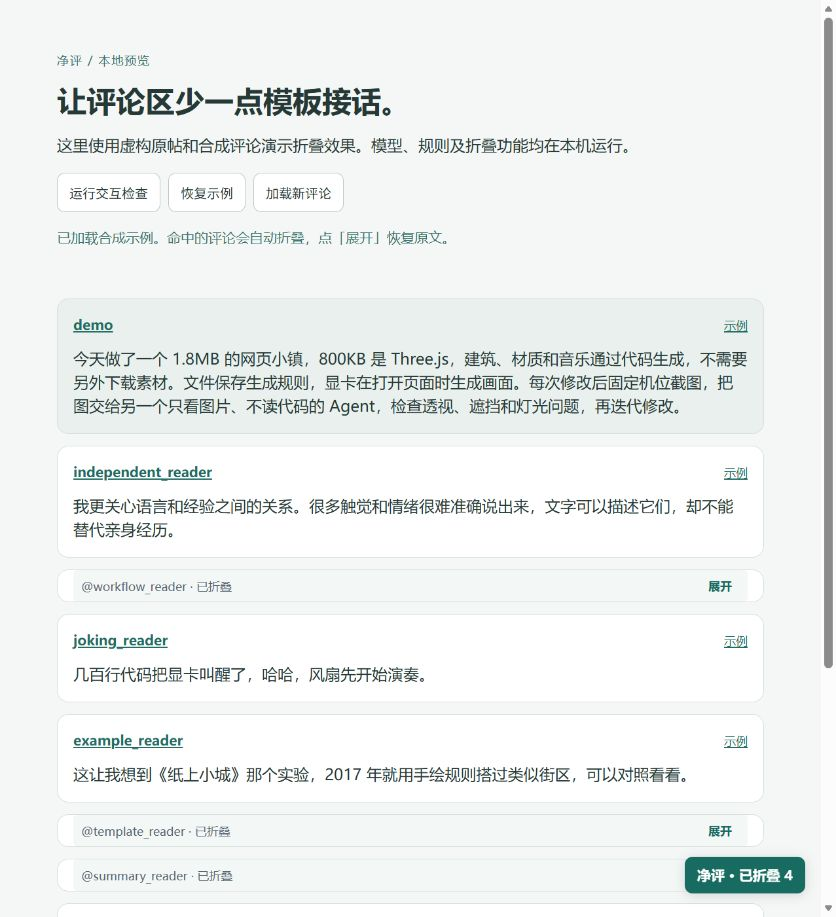
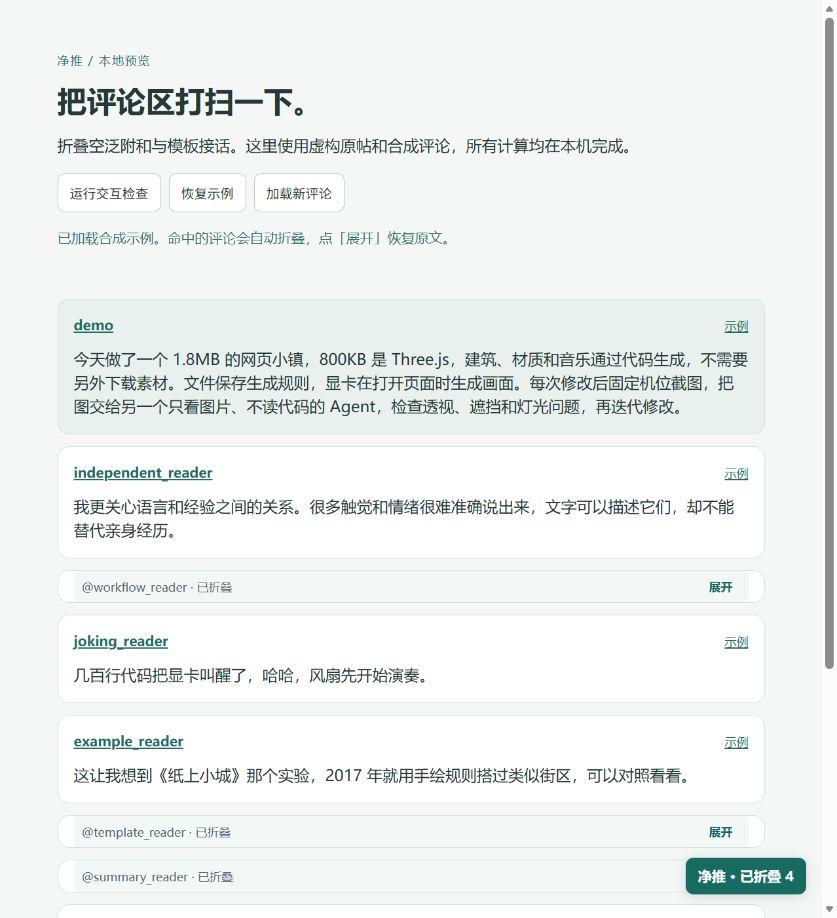
Rename to Jingtui and add empty-reply cleanup

diff --git a/extension/core.js b/extension/core.js
@@ -5,7 +5,7 @@
   else root.XReplyFilter = api;
 })(typeof globalThis === 'object' ? globalThis : this, function () {
   'use strict';
-  const DEFAULTS = Object.freeze({ mode: 'collapse', sensitivity: 'balanced', semantic: true });
+  const DEFAULTS = Object.freeze({ mode: 'collapse', sensitivity: 'balanced', semantic: true, lowInformation: true });
   const STOP = new Set('这个 那个 一个 这些 那些 就是 可以 不是 还是 因为 所以 但是 然后 什么 怎么 自己 已经 现在 真的 觉得 我们 你们 他们 有点 可能 不过 这种 这样 那样 没有 而且 一下 其实 里面 出来 东西 the and that this with from have has are was were for you your they their not but just it its to of in on as is at an be by or so'.split(' '));
   const PATTERNS = {
     praise: /很到位|挺有启发|有点东西|很干净|最关键|更值得|核心确实|确实是|讲得[很真]清楚|这个(?:思路|方法|比喻|角度)|最打动我|我(?:也)?觉得|哈哈|想试试|太省了|(?:great|good|fair) point|easy to (?:miss|overlook)|the (?:real|harder|useful) (?:test|question|part)|the bridge from/i,
@@ -87,6 +87,20 @@
     f.shape = [f.praise ? '接话' : '', f.anecdote ? '自述' : '', f.pivot ? '转折' : '', f.question ? '追问' : '', f.advice ? '建议' : '', f.future ? '试用意向' : '', f.reframe ? '总结' : ''].filter(Boolean).join('→');
     return f;
   }
+  function lowInformationReason(text, f, ratio) {
+    if(f.length>100 || f.question || /[?？]|出处|来源|证据|纠正|并未|不是官方|没有开源|并不是|不赞成|不建议|比如|例如|举个例子/.test(text))return '';
+    // Specific details and usable observations take priority over generic praise.
+    if(/https?:\/\/|`|\d\s*(?:px|fps|ms|[kmgt]i?b|%|秒|元)|报错|没反应|不支持|无法|失败|卡住|离线|断网|配置|参数|命令|函数|接口|字段|点击|关闭|打开|安装|改成|改为|按钮/i.test(text))return '';
+    const plain=normalize(text).replace(/[\p{P}\p{S}\s]+/gu,'');
+    const reaction=/^(?:(?:原来如此|谢谢(?:分享|整理|推荐|大佬)?|感谢(?:分享|整理|推荐|大佬)?|多谢|收藏(?:了|起来)?|已收藏|先收藏|学到了|学习了|受教了|涨知识了|支持|赞|太强了|太厉害了|厉害|好厉害|牛|牛逼|牛批|不错|很棒|太棒了|很有用|可以|先抄为敬|抄作业了|mark|thx|thanks|great|nice|哈哈|哈|慢慢看|慢慢消化|回头看)){1,6}$/i;
+    if(plain && f.length<=40 && reaction.test(plain))return '纯附和、致谢或收藏，未补充信息';
+    const praise=/省(?:了|下|不少|很多|点)?.{0,4}(?:劲|事|功夫)|高级(?:感)?|(?:太|真|很)?厉害|(?:太|很|真|够)(?:专业|详细|强|有用|不错)|有参考价值|直接抄作业|断层领先|这个(?:思路|方法).{0,4}(?:不错|挺好|真好)/;
+    const abstractAdvice=/(?:关键|真正难|更难|难点).{0,18}(?:团队|习惯|落地)|(?:配合|结合|考虑).{0,14}(?:具体内容|实际(?:情况|场景|需求)|可用性)/;
+    if((ratio>=0.22 || (ratio>0.08 && /^(?:厉害|太强了)[，,\s]*(?:没想到|原来)/.test(text))) && praise.test(text))return '围绕原帖作笼统评价，未补充具体细节';
+    if(ratio>=0.1 && abstractAdvice.test(text))return '泛化的原则或建议，未说明具体做法';
+    if(f.length>=12 && f.length<=65 && ratio>=0.88)return '短评论几乎完全重复原帖';
+    return '';
+  }
   function historySignals(history, currentId) {
     const now = Date.now(), rows = [...new Map((history || []).filter(x => x && x.id && x.id !== currentId && Number.isFinite(x.seenAt) && now >= x.seenAt && now - x.seenAt < 14 * 86400000).map(x => [x.id, x])).values()];
     const replies=rows.filter(x=>x.thread);
@@ -127,6 +141,7 @@
     const hasNewConcrete = newMeasurement || spans.some(x => x.ratio < 0.35 && PATTERNS.concrete.test(x.value));
     const substantive = (f.opposition && ratio < 0.8) || hasNewConcrete;
     const newReference = spans.some(x=>x.ratio<0.25 && /《[^》]+》|\b(?:19|20)\d{2}\s*年|\.[a-z][a-z0-9_-]{2,}/i.test(x.value));
+    const lowInformation = settings.lowInformation!==false && parent && !substantive && !newReference && !hasMedia && !truncated ? lowInformationReason(text,f,ratio) : '';
     const linkedSpans = spans.filter(x=>x.ratio>=0.3 && x.value.length>=8).length;
     const summaryReuse = ratio>=0.6 || (ratio>=0.5 && semantic?.similarity>=0.65);
     const shortJoke = f.length<70 && /哈哈|笑死|分明是|😂|🤣/.test(text);
@@ -156,6 +171,7 @@
     if (f.length < 15) score = Math.min(score, 25);
     if (hasMedia || truncated) { score = Math.min(score, 39); reasons.push(hasMedia ? '评论附有图片或视频，文字不足以判断' : '评论尚未展开，暂不自动折叠'); }
     if (!parent) score = Math.min(score, 35);
+    if(lowInformation){score=Math.max(score,75);reasons.push(lowInformation);}
     const commentScore = Math.max(0, Math.min(100, Math.round(score)));
     const threshold = settings.sensitivity === 'strict' ? 45 : settings.sensitivity === 'gentle' ? 75 : 60;
     const quantities = value=>new Set((value.match(/\d+(?:\.\d+)?\s*(?:万|亿|千|百|[KMGT]?B\b|行|笔|次|项|个|帧)/gi) || []).map(part=>normalize(part).replace(/\s+/g, '')));
@@ -166,20 +182,20 @@
     const highReuse = ratio >= 0.62 || (ratio >= 0.35 && semantic?.similarity >= 0.74) || (rawRatio >= 0.48 && borrowed.length >= 2) || detailedQuestion;
     const repetitiveQuestion = highReuse && f.question && (f.elastic || ratio>=0.7) && f.length >= 35;
     const repeatedAccount = h.repeated && f.template && (ratio >= 0.3 || h.regular || h.burst);
-    // User preference: ordinary agreement or a short joke alone must not auto-collapse.
-    const protectedContent = substantive || hasMedia || truncated || !parent || f.length < 15;
-    const eligible = !protectedContent && (repeatedAccount || (!newReference && (repetitiveQuestion || repetitiveAdvice || repetitiveSummary)));
+    const protectedContent = substantive || hasMedia || truncated || !parent || (f.length < 15 && !lowInformation);
+    const eligible = !protectedContent && (Boolean(lowInformation) || repeatedAccount || (!newReference && (repetitiveQuestion || repetitiveAdvice || repetitiveSummary)));
     const historyAdjustment = repeatedAccount && !protectedContent ? Math.min(100-commentScore, Math.round(h.score * 0.2)) : 0;
     score = commentScore + historyAdjustment;
     if(newReference)reasons.push('包含原帖之外的具体例子；单条文风不足以自动折叠');
     if (historyAdjustment) reasons.push(`本条也符合账号历史中的跨帖接话结构，辅助加 ${historyAdjustment} 分`);
     const decision = !eligible ? (protectedContent ? '保留：本条需要保留或补足上下文' : newReference ? '保留：有具体新例子，缺少跨帖重复证据' : '保留：未满足模板复述或跨帖重复条件') : score < threshold ? '保留：未达到折叠阈值' : '建议折叠：内容条件和分数均达到要求';
-    return { score, commentScore, account: h, historyAdjustment, threshold, decision, fold: settings.mode !== 'off' && eligible && score >= threshold, reasons, ratio, borrowed: borrowed.map(x => x.value.slice(0,100)).slice(0,3), features: f, missingParent: !parent, semantic, eligible, newReference };
+    return { score, commentScore, account: h, historyAdjustment, threshold, decision, fold: settings.mode !== 'off' && eligible && score >= threshold, reasons, ratio, borrowed: borrowed.map(x => x.value.slice(0,100)).slice(0,3), features: f, missingParent: !parent, semantic, eligible, newReference, lowInformation };
   }
   function sanitizeSettings(value) {
     return { mode: ['collapse','mark','off'].includes(value?.mode) ? value.mode : DEFAULTS.mode,
       sensitivity: ['gentle','balanced','strict'].includes(value?.sensitivity) ? value.sensitivity : DEFAULTS.sensitivity,
-      semantic: typeof value?.semantic === 'boolean' ? value.semantic : DEFAULTS.semantic };
+      semantic: typeof value?.semantic === 'boolean' ? value.semantic : DEFAULTS.semantic,
+      lowInformation: typeof value?.lowInformation === 'boolean' ? value.lowInformation : DEFAULTS.lowInformation };
   }
   return { DEFAULTS, normalize, signature, overlap, features, historySignals, analyze, sanitizeSettings };
 });

diff --git a/extension/content.js b/extension/content.js
@@ -60,7 +60,7 @@
   launcherHost.style.cssText = 'position:fixed;right:16px;bottom:24px;z-index:2147483000;width:auto;max-width:calc(100vw - 32px)';
   const launcherRoot = shadow(launcherHost), panel = node('section', '', 'panel');
   panel.hidden = true;
-  const title = node('h2', '净评'), status = node('p', '', 'note muted'), errors = node('p', '', 'note error');
+  const title = node('h2', '净推'), status = node('p', '', 'note muted'), errors = node('p', '', 'note error');
   errors.setAttribute('role', 'status');
   function select(label, options, field) {
     const wrap = node('label', label), input = node('select');
@@ -74,10 +74,12 @@
   const sensitivityInput = select('过滤力度', [['gentle','温和'],['balanced','标准'],['strict','较强']], 'sensitivity');
   const semanticWrap=node('label','本地中文语义辅助'),semanticInput=node('input');semanticInput.type='checkbox';semanticInput.setAttribute('aria-label','本地中文语义辅助');
   semanticInput.addEventListener('change',()=>save(keys.settings,{...settings,semantic:semanticInput.checked}));semanticWrap.append(semanticInput);
-    panel.append(semanticWrap,status, node('p','重点过滤多处复述后的附和、总结、追问与试用意向，结合账号历史判断。具体新例子优先保留。模型在本机计算。','note muted'), errors);
+  const lowInfoWrap=node('label','折叠空泛附和'),lowInfoInput=node('input');lowInfoInput.type='checkbox';lowInfoInput.setAttribute('aria-label','折叠空泛附和');
+  lowInfoInput.addEventListener('change',()=>save(keys.settings,{...settings,lowInformation:lowInfoInput.checked}));lowInfoWrap.append(lowInfoInput);
+    panel.append(semanticWrap,lowInfoWrap,status, node('p','过滤模板复述和空泛附和。具体反馈、纠错和来源核实优先保留。模型在本机计算。','note muted'), errors);
   const accountList = node('div'); panel.append(accountList);
-  const toggle = button('净评', () => { panel.hidden = !panel.hidden; toggle.setAttribute('aria-expanded', String(!panel.hidden)); });
-  toggle.className = 'launcher'; toggle.setAttribute('aria-expanded','false'); toggle.setAttribute('aria-label','打开净评设置');
+  const toggle = button('净推', () => { panel.hidden = !panel.hidden; toggle.setAttribute('aria-expanded', String(!panel.hidden)); });
+  toggle.className = 'launcher'; toggle.setAttribute('aria-expanded','false'); toggle.setAttribute('aria-label','打开净推设置');
   launcherRoot.append(panel, toggle); if(demo)document.body.append(launcherHost);
   async function save(key, value) {
     try { await storage.set({ [key]:value }); applyStored({ [key]:value }); error = ''; }
@@ -91,8 +93,8 @@
     if (keys.history in data) history = data[keys.history] && typeof data[keys.history] === 'object' ? data[keys.history] : {};
   }
   function refreshPanel() {
-    modeInput.value = settings.mode; sensitivityInput.value = settings.sensitivity;semanticInput.checked=settings.semantic;
-    toggle.textContent = settings.mode === 'off' ? '净评 · 已暂停' : `净评 · 已折叠 ${foldedCount}`;
+    modeInput.value = settings.mode; sensitivityInput.value = settings.sensitivity;semanticInput.checked=settings.semantic;lowInfoInput.checked=settings.lowInformation;
+    toggle.textContent = settings.mode === 'off' ? '净推 · 已暂停' : `净推 · 已折叠 ${foldedCount}`;
     status.textContent = !routeKey ? '进入帖子详情页后过滤评论。' : !rootText ? '等待原帖正文，暂不自动折叠。' : `当前已检查 ${evaluatedCount} 条，折叠 ${foldedCount} 条。${semanticBusy?' 本地语义计算中…':semanticFailed?' 语义辅助不可用，正在使用规则。':settings.semantic?' 中文语义辅助已开启。':' 仅使用规则。'}`;
     errors.textContent = error;
     accountList.replaceChildren();

diff --git a/preview/index.html b/preview/index.html
@@ -1,5 +1,5 @@
-<!doctype html><html lang="zh-CN"><head><meta charset="utf-8"><meta name="viewport" content="width=device-width,initial-scale=1"><meta http-equiv="Content-Security-Policy" content="default-src 'self'; script-src 'self' 'wasm-unsafe-eval'; style-src 'self' 'unsafe-inline'; worker-src 'self'; connect-src 'self'; img-src 'self' data:"><title>净评 · 本地交互验收</title><link rel="stylesheet" href="/preview/style.css"><link rel="stylesheet" href="/extension/content.css"></head><body>
-<header><span class="eyebrow">净评 / 本地预览</span><h1>让评论区少一点模板接话。</h1><p>这里使用虚构原帖和合成评论演示折叠效果。模型、规则及折叠功能均在本机运行。</p><div class="toolbar"><button id="run">运行交互检查</button><button id="reset">恢复示例</button><button id="add">加载新评论</button></div><p id="test-status" role="status">等待本地模型，首次计算稍需片刻。</p><a data-testid="AppTabBar_Profile_Link" href="/self" hidden>我的资料</a></header>
+<!doctype html><html lang="zh-CN"><head><meta charset="utf-8"><meta name="viewport" content="width=device-width,initial-scale=1"><meta http-equiv="Content-Security-Policy" content="default-src 'self'; script-src 'self' 'wasm-unsafe-eval'; style-src 'self' 'unsafe-inline'; worker-src 'self'; connect-src 'self'; img-src 'self' data:"><title>净推 · 本地交互验收</title><link rel="stylesheet" href="/preview/style.css"><link rel="stylesheet" href="/extension/content.css"></head><body>
+<header><span class="eyebrow">净推 / 本地预览</span><h1>把评论区打扫一下。</h1><p>折叠空泛附和与模板接话。这里使用虚构原帖和合成评论，所有计算均在本机完成。</p><div class="toolbar"><button id="run">运行交互检查</button><button id="reset">恢复示例</button><button id="add">加载新评论</button></div><p id="test-status" role="status">等待本地模型，首次计算稍需片刻。</p><a data-testid="AppTabBar_Profile_Link" href="/self" hidden>我的资料</a></header>
 <main id="timeline" aria-label="评论预览"></main><section id="results" aria-label="交互检查结果"></section>
 <script src="/extension/core.js"></script><script src="/preview/demo.js"></script><script src="/extension/content.js"></script>
 </body></html>

diff --git a/preview/demo.js b/preview/demo.js
@@ -112,10 +112,17 @@ async function run(){
     await until(()=>folded('15103'));
     if(folded('15104')||bar('15104'))throw Error('实际帧率被当成设想过滤');
   });
-  await test('多处复述后收藏学习会折叠，短收藏仍保留',async()=>{
+  await test('多处复述和纯收藏致谢都按新偏好折叠',async()=>{
     timeline.append(article('15105','bookmark_summary','建筑、材质和音乐通过代码生成，不需要另外下载素材。文件保存生成规则，显卡在打开页面时生成画面。固定机位截图，检查透视、遮挡和灯光问题，收藏了慢慢消化。'),article('15106','short_bookmark','收藏了，慢慢看。'));
-    await until(()=>folded('15105'));
-    if(folded('15106')||bar('15106'))throw Error('短收藏回复被误折叠或插入控件');
+    await until(()=>folded('15105')&&folded('15106'));
+  });
+  await test('关闭空泛附和清理可恢复短评，重新开启后再次折叠',async()=>{
+    const checkbox=settings().querySelector('[aria-label="折叠空泛附和"]');
+    checkbox.checked=false;checkbox.dispatchEvent(new Event('change'));
+    await until(()=>!folded('15106')&&!bar('15106'));
+    if(!folded('15105'))throw Error('关闭空泛附和意外停用了模板复述过滤');
+    checkbox.checked=true;checkbox.dispatchEvent(new Event('change'));
+    await until(()=>folded('15106'));
   });
   const summary={passed:results.filter(r=>r.pass).length,total:results.length,results};window.XRF_TEST_RESULTS=summary;status.textContent=`交互检查 ${summary.passed}/${summary.total} 通过。`;runButton.disabled=false;
   const pre=document.createElement('pre');pre.id='test-json';pre.hidden=true;pre.textContent=JSON.stringify(summary);output.append(pre);

diff --git a/extension/popup.js b/extension/popup.js
@@ -1,11 +1,11 @@
 /* SPDX-License-Identifier: MIT */
 (async()=>{
   const store=(globalThis.browser||globalThis.chrome).storage.local;
-  const fields=['mode','sensitivity','semantic'],status=document.getElementById('status');
+  const fields=['mode','sensitivity','semantic','lowInformation'],status=document.getElementById('status');
   try {
     const data=await store.get('xrf.settings'),settings=XReplyFilter.sanitizeSettings(data['xrf.settings']);
-    for(const field of fields){const input=document.getElementById(field);if(field==='semantic')input.checked=settings[field];else input.value=settings[field];input.addEventListener('change',async()=>{
-      try{const fresh=(await store.get('xrf.settings'))['xrf.settings'];await store.set({'xrf.settings':{...XReplyFilter.sanitizeSettings(fresh),[field]:field==='semantic'?input.checked:input.value}});status.textContent='已保存，打开的 X 页面会自动应用。';}
+    for(const field of fields){const input=document.getElementById(field);if(input.type==='checkbox')input.checked=settings[field];else input.value=settings[field];input.addEventListener('change',async()=>{
+      try{const fresh=(await store.get('xrf.settings'))['xrf.settings'];await store.set({'xrf.settings':{...XReplyFilter.sanitizeSettings(fresh),[field]:input.type==='checkbox'?input.checked:input.value}});status.textContent='已保存，打开的 X 页面会自动应用。';}
       catch{status.textContent='保存失败，请重试。';}
     });}status.textContent='设置自动保存在本机。';
   }catch{status.textContent='无法读取设置，请重新加载扩展。';}

diff --git a/extension/popup.html b/extension/popup.html
@@ -1,7 +1,8 @@
-<!doctype html><html lang="zh-CN"><head><meta charset="utf-8"><meta name="viewport" content="width=device-width, initial-scale=1"><title>净评设置</title><link rel="stylesheet" href="popup.css"></head><body>
-<main><h1>净评</h1><p>把模板式接话折叠起来。</p>
+<!doctype html><html lang="zh-CN"><head><meta charset="utf-8"><meta name="viewport" content="width=device-width, initial-scale=1"><title>净推设置</title><link rel="stylesheet" href="popup.css"></head><body>
+<main><h1>净推</h1><p>折叠空泛附和与模板接话，让评论区更清爽。</p>
 <label>处理方式<select id="mode"><option value="collapse">自动折叠</option><option value="mark">仅后台评分</option><option value="off">暂停过滤</option></select></label>
 <label>过滤力度<select id="sensitivity"><option value="gentle">温和</option><option value="balanced">标准</option><option value="strict">较强</option></select></label>
 <label>本地中文语义辅助<input id="semantic" type="checkbox"></label>
+<label>折叠空泛附和<input id="lowInformation" type="checkbox"></label>
 <p id="status" role="status">正在读取设置</p><p class="small">进入 X 帖子详情页后生效。正常评论保持原样，需要折叠时只显示细栏和“展开”。</p><p class="small">中文模型随扩展打包，完全本地运行。无需 API Key，不上传评论。</p>
 </main><script src="core.js"></script><script src="popup.js"></script></body></html>

diff --git a/extension/engine.html b/extension/engine.html
@@ -1,1 +1,1 @@
-<!doctype html><html><head><meta charset="utf-8"><title>净评本地计算</title></head><body><script src="engine.js"></script></body></html>
+<!doctype html><html><head><meta charset="utf-8"><title>净推本地计算</title></head><body><script src="engine.js"></script></body></html>

diff --git a/README.md b/README.md
@@ -1,23 +1,25 @@
-# 净评 Jingping
+# 净推 Jingtui
 
-**把复述原帖、再接一句空泛问题的评论折起来。**
+**把评论区打扫一下：折叠空泛附和、重复结论和模板接话。**
 
 免费、本地运行的 X 评论过滤扩展。无需 Token、API Key 或服务器。正常评论保持原样，命中规则时只留一条细栏，点「展开」就能看原文。
 
+原名「净评」，从 0.2.0 起更名为「净推」。原安装目录和设置可以继续使用。
+
 [下载试用版](https://github.com/smyll/jingping/releases) · [English](README.en.md) · [反馈漏拦 / 误折叠](https://github.com/smyll/jingping/issues/new/choose)
 
-![净评折叠演示：普通评论保持原样，模板回复折叠为细栏](docs/demo.jpg)
+![净推折叠演示：普通评论保持原样，模板回复折叠为细栏](docs/demo.jpg)
 
 *演示使用虚构账号和合成评论，运行的是扩展本身。*
 
 ## 30 秒安装
 
-1. 在 [Releases](https://github.com/smyll/jingping/releases) 下载 **jingping-v0.1.3-edge-chrome.zip** 并解压。
+1. 在 [Releases](https://github.com/smyll/jingping/releases) 下载 **jingtui-v0.2.0-edge-chrome.zip** 并解压。
 2. Edge 打开 `edge://extensions`，Chrome 打开 `chrome://extensions`，开启「开发者模式」。
 3. 点击「加载解压缩的扩展」，选择解压后里面的 **extension** 文件夹。
 4. 刷新 X，打开一个帖子的评论区。
 
-浏览器扩展菜单 → **净评设置**，可以调节力度、暂停，或关闭本地语义模型。升级时替换扩展文件，在扩展管理页点击刷新，再刷新 X 页面。
+浏览器扩展菜单 → **净推设置**，可以调节力度、暂停，单独关闭「折叠空泛附和」或关闭本地语义模型。升级时替换扩展文件，在扩展管理页点击刷新，再刷新 X 页面。
 
 | 功能 | 当前情况 |
 | --- | --- |
@@ -29,10 +31,11 @@
 ## 折叠什么
 
 - 多处复述原帖，然后附和、总结或抛出空泛问题。
-- 重述原帖后追加没有实际结果的试用意向、收藏学习意向或泛化建议。单独的「收藏了」短评保留。
+- 重述原帖后追加没有实际结果的试用意向、收藏学习意向或泛化建议。
+- 默认清理纯致谢、收藏、空泛夸赞、几乎原样重复的短结论，以及没有具体做法的泛化建议。可在设置中单独关闭。
 - 在你浏览过的不同帖子下，反复出现相似接话结构的账号；账号历史只辅助本条判断。
 
-短问题、普通短附和、笑话、具体新例子、报错与实测数据优先保留。带图片、视频或尚未展开全文的评论也先保留。主帖、主帖作者的回复、自己的回复不折叠。
+具体反馈、来源核实、纠错、问题、笑话、具体新例子、报错与实测数据优先保留；短并不自动代表需要保留。带图片、视频或尚未展开全文的评论也先保留。主帖、主帖作者的回复、自己的回复不折叠。
 
 实测数据包括新增的耗时、内存、费用等结果；假设、性能目标或转述原帖数字不会仅因带单位就获得保留优先级。
 
@@ -53,7 +56,7 @@
 
 ## 试用版的效果
 
-最新一轮在 **4 个新的 X 帖子下检查了 119 条回复**，发现一条「多处复述原帖＋收藏慢慢消化」漏拦。修正后已回到真实页面确认自动折叠，展开后原文正常恢复；同批文本重算中其余 118 条处理结果不变。默认仍偏保守，短评论优先保留。
+在 **4 个真实 X 帖子下检查过 119 条回复**。加入空泛附和清理后，同批文本复测由 1 条折叠增加到 20 条，主要增加纯致谢、收藏、笼统评价和重复结论。已回到真实原帖核对一组 8 条反馈：6 条按本轮偏好折叠，2 条暂时保留，界面仍只有细栏和「展开」。
 
 此前还完成过另外 3 个帖子的 87 条抽查。这些是过滤偏好检查，不是 AI 来源准确率。
 

diff --git a/README.en.md b/README.en.md
@@ -1,8 +1,10 @@
-# Jingping · A quieter X reply section
+# Jingtui · A quieter X reply section
 
-**Fold replies that mostly repeat the post and finish with a generic question.**
+**Fold empty praise, repeated conclusions and template replies.**
 
 A free, local browser extension. No tokens, API keys or server. Ordinary replies stay untouched. Filtered replies become a slim bar with one **Expand** button (currently labeled in Chinese).
+
+Previously named Jingping. Version 0.2.0 adopts Jingtui while retaining the existing installation and settings.
 
 [Download](https://github.com/smyll/jingping/releases) · [中文](README.md) · [Report a filtering issue](https://github.com/smyll/jingping/issues/new/choose)
 
@@ -10,7 +12,7 @@ A free, local browser extension. No tokens, API keys or server. Ordinary replies
 
 ## Install
 
-1. Download **jingping-v0.1.3-edge-chrome.zip** from Releases and extract it.
+1. Download **jingtui-v0.2.0-edge-chrome.zip** from Releases and extract it.
 2. Open `edge://extensions` or `chrome://extensions` and enable Developer mode.
 3. Click **Load unpacked** and select the extracted **extension** folder.
 4. Refresh X and open a post's replies. Use the extension popup to change sensitivity or pause filtering.
@@ -23,7 +25,7 @@ The extension combines phrase overlap, a bundled Chinese embedding model and rep
 
 Reported measurements can include elapsed time, memory and cost. Hypothetical targets and numbers quoted from the source do not receive measurement protection just because they include a unit.
 
-Multi-point restatements followed by a generic intention to save or study the post can also fold. A short bookmark acknowledgment on its own stays visible.
+Multi-point restatements followed by a generic intention to save or study the post can also fold. Empty-reply cleanup is enabled by default: it can fold standalone thanks, bookmarks, generic praise and abstract advice. Turn off **折叠空泛附和** in the popup to retain those short reactions while keeping the template filter active.
 
 This is a personal filter, **not an AI-authorship detector**. It does not score people from their names, blue checks or AI branding. Current tuning targets Chinese replies; English quality has not been evaluated separately.
 
@@ -35,6 +37,6 @@ The repository includes the runnable extension and pinned model. Run `npm test`,
 
 To rebuild the runtime, use Node.js 22+, `npm ci --ignore-scripts`, then `node tools/build-model.cjs`. Run `npm run package` to produce a release folder.
 
-Reports of missed or unwanted folds are welcome. Include the public source, expected behavior and your settings. If Jingping is useful, a Star helps others find it.
+Reports of missed or unwanted folds are welcome. Include the public source, expected behavior and your settings. If Jingtui is useful, a Star helps others find it.
 
 MIT license. Third-party model/runtime notices are bundled in `extension/licenses/`. See [validation notes](docs/validation.md) for the current test boundaries.

diff --git a/docs/validation.md b/docs/validation.md
@@ -1,5 +1,13 @@
 # 验证记录
 
+## 0.2.0 · 2026-11-17
+
+- 本轮用户将目标扩展到清理无信息的附和，并确定名称为「净推」。新增清理默认启用，可单独关闭；不更改存储键、权限或账号操作范围。
+- 核心规则 35/35；Edge 本地页面交互 30/30。覆盖纯致谢/收藏、笼统评价、抽象建议、来源核实、具体字号反馈、关闭新开关恢复短评、重新开启后折叠、旧手动选择和展开状态。
+- 同批 119 条真实文本重算，折叠数从 0.1.3 的 1 条变为 20 条。新增结果来自过滤偏好变化，不作为 AI 来源标签。
+- 已在真实原帖中核对用户指出的 8 条评论：6 条空泛回复自动折叠，字号反馈和来源核实 2 条暂时保留；折叠条只有「展开」，保留评论无插件附加界面。
+- 原安装目录已同步 0.2.0；用户刷新后看到「净推」新名称，真实页面已加载并验证新增规则。
+
 ## 0.1.3 · 2026-11-17
 
 - 自行启动 Edge，在 4 个此前未用于校准的真实 X 帖子下读取 119 条去重回复：代码维护讨论 25 条，模型与工具选择讨论 23 条，Agent 用途讨论 24 条，设计规范讨论 47 条。排除原帖作者和本人回复，不包括推荐区内容；这是抽查量，不是评论区总量。

diff --git a/CHANGELOG.md b/CHANGELOG.md
@@ -1,5 +1,13 @@
 # 更新记录
 
+## 0.2.0 · 净推 · 2026-11-17
+
+- 从「净评」更名为「净推」，继续沿用原设置和安装目录。
+- 默认新增空泛附和清理，覆盖纯致谢、收藏、笼统评价和重复结论；设置里可单独关闭。
+- 保留具体反馈、核实问题、纠错、媒体和未展开全文的内容保护。
+- 35 项规则检查、30 项 Edge 页面检查通过；真实原帖中本轮反馈的 8 条评论符合 6 折叠、2 暂时保留的处理目标。
+- 旧版测试中「短收藏默认保留」的预期改为关闭新增清理时保留，模板过滤本身保持可独立使用。
+
 ## 0.1.3 · 2026-11-17
 
 - 在 4 个新的真实 X 帖子下检查 119 条回复，修正多处复述原帖后接「收藏慢慢消化」的漏拦。

diff --git a/PRIVACY.md b/PRIVACY.md
@@ -1,6 +1,6 @@
 # 本地数据说明
 
-净评没有服务器、遥测、广告或外部推理 API。
+净推没有服务器、遥测、广告或外部推理 API。
 
 读取范围：在你打开的 X 页面中读取已加载的正文、作者名称、公开发帖时间，以及用于辨认主帖和评论的页面结构。不读取私信、不读取 Cookie、不调用 X 写接口。
 
